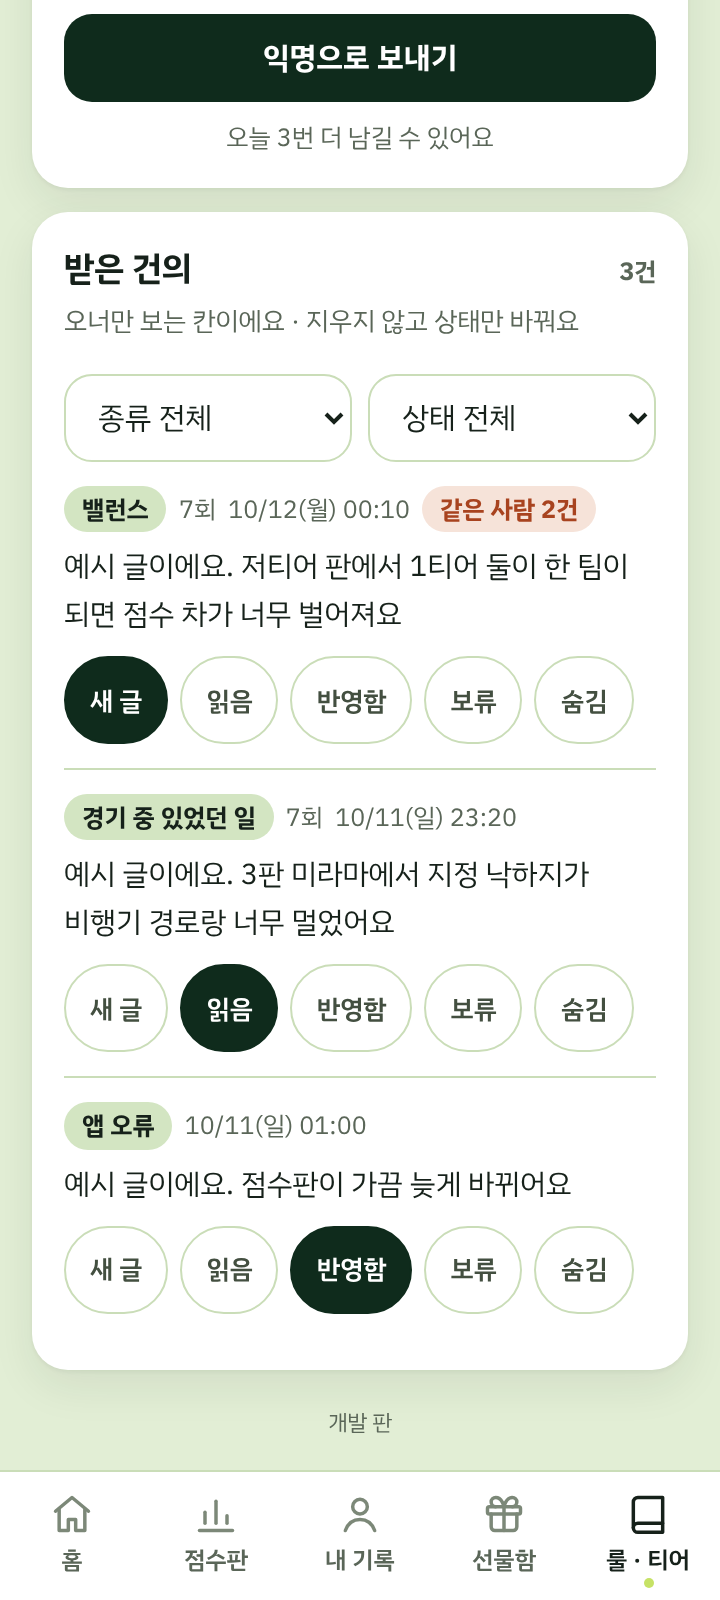
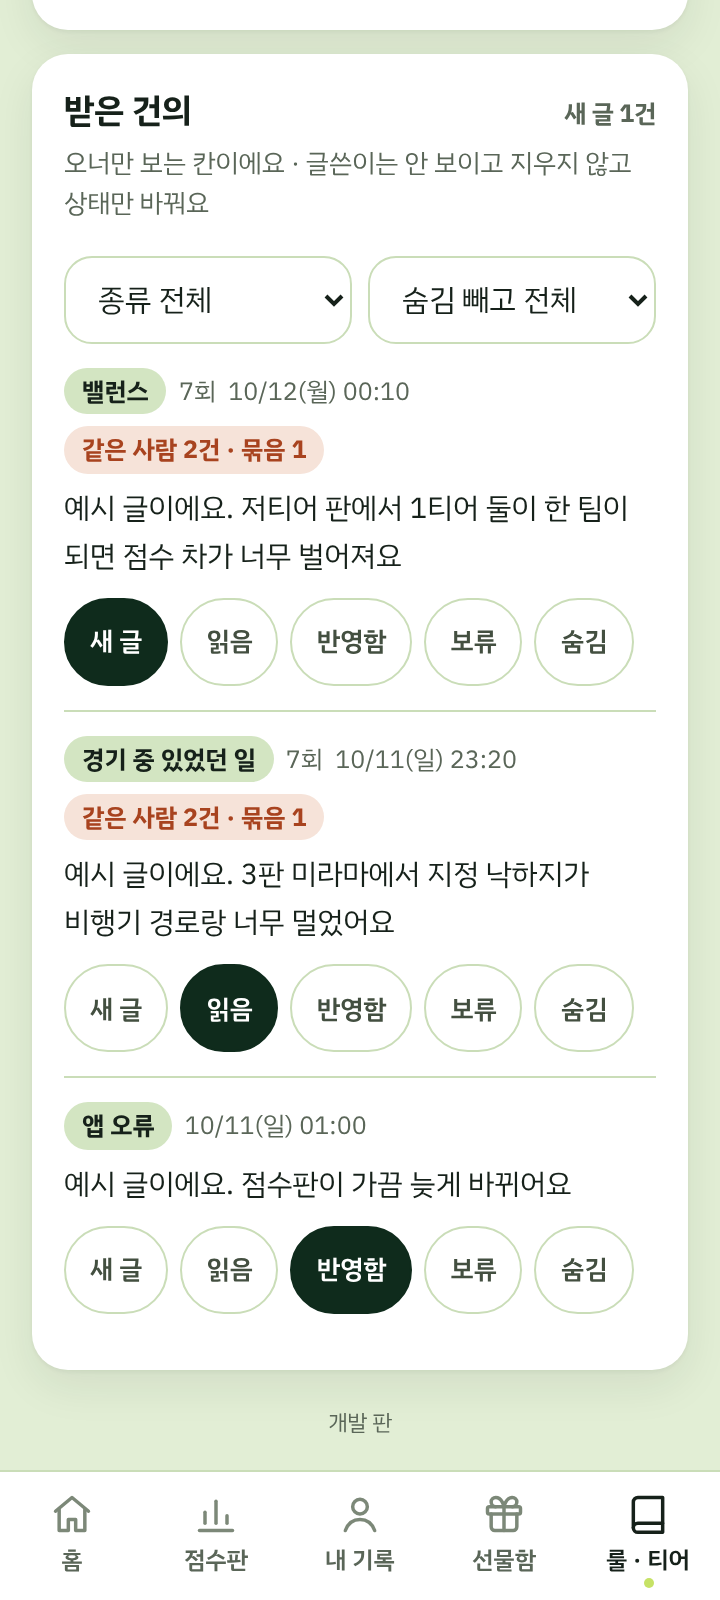
킬내기 앱 건의함 — 계약 §1.32(mri-academy #571) 그대로: 길 /feedback · /feedback/mine · /feedback/admin · category(match) · status · todayLeft · 「내 건의 n건」 · 오너 counts · group · sameAuthor · 문구 §1.32.7
Claude-Session: https://claude.ai/code/session_01VZpurRErTSq9Jq5fnBM9T2

Changed region(s): [[0.0306, 0.0, 0.9778, 0.5312], [0.8861, 0.25, 0.9167, 0.2812]]

diff --git a/killnaegi-app.html b/killnaegi-app.html
@@ -275,6 +275,7 @@ details p{font-size:14px;color:var(--body);padding:0 0 12px;}
 .fb-meta{display:flex;flex-wrap:wrap;align-items:center;gap:6px;font-size:12.5px;color:var(--mute);}
 .fb-kind{background:var(--chip);color:var(--ink);font-weight:700;border-radius:999px;padding:2px 9px;}
 .fb-same{background:var(--bad-soft);color:var(--bad);font-weight:700;border-radius:999px;padding:2px 9px;}
+.fb-st-tag{margin-left:auto;background:var(--acc-soft);color:var(--ink);font-weight:700;border-radius:999px;padding:2px 9px;}
 .fb-msg{font-size:14.5px;line-height:1.65;margin-top:6px;white-space:pre-wrap;overflow-wrap:anywhere;}
 .fb-states{display:flex;flex-wrap:wrap;gap:6px;margin-top:8px;}
 .fb-st{min-height:44px;padding:0 12px;border-radius:999px;border:1px solid var(--line);background:#fff;color:var(--body);font-size:13px;font-weight:600;cursor:pointer;}
@@ -454,7 +455,7 @@ details p{font-size:14px;color:var(--body);padding:0 0 12px;}
       </div>
       <div class="card" id="fbAdmin" hidden>
         <h2 class="card-h">받은 건의 <span class="note" id="fbAdminCount"></span></h2>
-        <p class="card-sub">오너만 보는 칸이에요 · 지우지 않고 상태만 바꿔요</p>
+        <p class="card-sub">오너만 보는 칸이에요 · 글쓴이는 안 보이고 지우지 않고 상태만 바꿔요</p>
         <div class="fb-filters">
           <select class="fb-sel" id="fbKindF" aria-label="종류로 거르기"></select>
           <select class="fb-sel" id="fbStateF" aria-label="상태로 거르기"></select>
@@ -1128,25 +1129,26 @@ details p{font-size:14px;color:var(--body);padding:0 0 12px;}
     });
   });
 
-  /* ---------- 건의함 ----------
-   * 로그인 필수 · 누가 보냈는지는 화면 어디에도 없음 · 읽는 곳은 오너 관리 칸뿐 · 디스코드 알림 없음(10/12 오너 결정).
-   * 서버 길은 경비 계약 절이 나오기 전 가정이다 — 아래 FB 한 곳만 계약대로 고치면 된다(화면 코드는 그대로).
-   *   스위치  GET  /api/killrace/switches → feedback(true 일 때만 열림)
-   *   내 상태 GET  /api/killrace/me/feedback → { left, limit }(오늘 남은 횟수 · 없어도 화면은 돈다)
-   *   보내기  POST /api/killrace/me/feedback { kind, eventId|null, body } → { ok, left } (다시 보내지 않는다)
-   *   오너    GET  /api/killrace/feedback/admin?kind=&state= → { items: [{ id, kind, eventId, eventName, body, state, createdAt, sameCount? }], total }
-   *           POST /api/killrace/feedback/admin { id, state } → { ok } */
+  /* ---------- 건의함 (계약 killrace-api §1.32 · 서버 mri-academy #571) ----------
+   * 로그인 필수 · 글쓴이는 서버도 지문(HMAC)으로만 갖고 화면 어디에도 없다 · 읽는 곳은 오너 관리 칸뿐 · 디스코드 알림 없음.
+   *   스위치  GET  /api/killrace/switches → feedback(꺼지면 쓰기만 409 · 「내 건의」 · 오너 읽기는 열림)
+   *   쓰기    POST /api/killrace/feedback { category, eventId|null, body } → { ok, id, createdAt, todayLeft } (다시 보내지 않는다)
+   *   내 건의 GET  /api/killrace/feedback/mine → { count, todayLeft, items: [{ id, category, eventId, body, status, createdAt }] }
+   *   오너    GET  /api/killrace/feedback/admin?status=&category= → { counts, items: [{ id, category, event, body, status, createdAt, statusAt, group, sameAuthor }], nextCursor }
+   *           POST /api/killrace/feedback/admin { id, status } → { ok, id, status } · 지우기 없음 */
   var FB = {
-    me: function () { return api("/api/killrace/me/feedback"); },
-    send: function (b) { return api("/api/killrace/me/feedback", b); },
-    list: function (kind, state) { return api("/api/killrace/feedback/admin" + "?kind=" + encodeURIComponent(kind || "") + "&state=" + encodeURIComponent(state || "")); },
-    set: function (id, state) { return api("/api/killrace/feedback/admin", { id: id, state: state }); }
+    mine: function () { return api("/api/killrace/feedback/mine"); },
+    send: function (b) { return api("/api/killrace/feedback", b); },
+    list: function (category, status) { return api("/api/killrace/feedback/admin?status=" + encodeURIComponent(status || "") + "&category=" + encodeURIComponent(category || "")); },
+    set: function (id, status) { return api("/api/killrace/feedback/admin", { id: id, status: status }); }
   };
-  var FB_KINDS = [{ key: "rule", label: "룰" }, { key: "balance", label: "밸런스" }, { key: "incident", label: "경기 중 있었던 일" }, { key: "app", label: "앱 오류" }, { key: "etc", label: "기타" }];
+  var FB_KINDS = [{ key: "rule", label: "룰" }, { key: "balance", label: "밸런스" }, { key: "match", label: "경기 중 있었던 일" }, { key: "app", label: "앱 오류" }, { key: "etc", label: "기타" }];
   var FB_STATES = [{ key: "new", label: "새 글" }, { key: "read", label: "읽음" }, { key: "applied", label: "반영함" }, { key: "held", label: "보류" }, { key: "hidden", label: "숨김" }];
   var FB_MIN = 10, FB_MAX = 500, FB_DAY = 3;
-  var fbPick = null, fbLeft = null;
+  var fbPick = null, fbLeft = null, fbMine = null, fbOn = false;
   var labelOf = function (list, k) { var f = list.filter(function (x) { return x.key === k; })[0]; return f ? f.label : k || ""; };
+  var fbLen = function (t) { return Array.from ? Array.from(t).length : t.length; };   // 글자 수 = 코드 포인트(§1.32.3)
+  var leftText = function () { return fbLeft === 0 ? "오늘은 " + FB_DAY + "건까지 남길 수 있어요 · 내일 다시 남길 수 있어요" : fbLeft != null ? "오늘 " + fbLeft + "번 더 남길 수 있어요" : "하루 " + FB_DAY + "번까지 남길 수 있어요"; };
   function fbState(state, html) {
     $("fbLoad").hidden = state !== "load"; $("fbFail").hidden = state !== "fail"; $("fbBody").hidden = state !== "body";
     if (state === "body") $("fbBody").innerHTML = html;
@@ -1154,43 +1156,58 @@ details p{font-size:14px;color:var(--body);padding:0 0 12px;}
   function loadFeedback() {
     fbState("load");
     var sw = getJSON("/api/killrace/switches").then(function (j) { return (j && j.switches) || j || {}; });
-    var me = token() ? FB.me() : Promise.resolve(null);
-    Promise.all([sw, me, loadEvents()]).then(function (r) {
-      var on = r[0].feedback === true, m = r[1];
-      if (!on) { fbState("body", '<div class="ready" style="margin-top:12px;"><span><b>준비 중이에요</b><span class="card-sub" style="display:block;">건의함이 열리면 여기서 남길 수 있어요</span></span></div>'); $("fbAdmin").hidden = true; return; }
+    var mine = token() ? FB.mine() : Promise.resolve(null);
+    Promise.all([sw, mine, loadEvents()]).then(function (r) {
+      var m = r[1];
+      fbOn = r[0].feedback === true;
       if (!token() || (m && m.status === 401)) {
-        fbState("body", '<p class="msg">디스코드로 연결하면 남길 수 있어요</p><a class="btn dark wide" href="killrace/">연결하기</a>');
+        fbState("body", fbOn ? '<p class="msg">디스코드로 연결하면 남길 수 있어요</p><a class="btn dark wide" href="killrace/">연결하기</a>' : fbReady());
         $("fbAdmin").hidden = true; return;
       }
       if (m && (m.status === 0 || m.status >= 500)) { fbState("fail"); return; }
-      fbLeft = m && m.ok && isFinite(m.body.left) ? Number(m.body.left) : null;
-      fbForm();
+      fbMine = m && m.ok ? m.body : null;
+      fbLeft = fbMine && isFinite(fbMine.todayLeft) ? Number(fbMine.todayLeft) : null;
+      if (!fbOn) fbState("body", fbReady() + mineHtml());      // 꺼져도 「내 건의」는 보인다(§1.32.1)
+      else fbForm();
       loadFbAdmin();
     }, function (e) { bug(e); fbState("fail"); });
   }
+  function fbReady() { return '<div class="ready" style="margin-top:12px;"><span><b>준비 중이에요</b><span class="card-sub" style="display:block;">건의함이 열리면 여기서 남길 수 있어요</span></span></div>'; }
+  // 「내 건의 n건」 — 내 지문 글만 · 오너가 숨긴 글은 서버가 「읽음」으로 준다
+  function mineHtml() {
+    var items = fbMine && fbMine.items || [];
+    if (!items.length) return "";
+    return '<h3 class="fb-label" style="margin-top:18px;">내 건의 ' + esc(isFinite(fbMine.count) ? fbMine.count : items.length) + "건</h3>" + items.slice(0, 10).map(function (x) {
+      var at = toMs(x.createdAt), ev = x.eventId && EVS ? EVS.events.filter(function (e) { return e.id === x.eventId; })[0] : null;
+      return '<div class="fb-item"><div class="fb-meta"><span class="fb-kind">' + esc(labelOf(FB_KINDS, x.category)) + "</span>" +
+        (x.eventId ? "<span>" + esc(ev ? roundOf(ev.name, x.eventId) : x.eventId + "회차") + "</span>" : "") + (at ? "<span>" + mdw(at) + "</span>" : "") +
+        '<span class="fb-st-tag">' + esc(labelOf(FB_STATES, x.status)) + '</span></div><p class="fb-msg">' + esc(x.body) + "</p></div>";
+    }).join("");
+  }
   function fbForm() {
-    if (fbLeft === 0) { fbState("body", '<div class="fb-done"><b>오늘은 ' + FB_DAY + '건을 다 남겼어요</b><p class="note">내일 다시 남길 수 있어요</p></div>'); return; }
+    if (fbLeft === 0) { fbState("body", '<div class="fb-done"><b>오늘은 ' + FB_DAY + '건까지 남길 수 있어요</b><p class="note">내일 다시 남길 수 있어요</p></div>' + mineHtml()); return; }
     var evs = (EVS && EVS.events || []).slice(0, 12);
     fbState("body",
       '<div class="kchips" role="group" aria-label="건의 종류">' + FB_KINDS.map(function (k) { return '<button type="button" class="kchip" data-kind="' + k.key + '" aria-pressed="' + (fbPick === k.key) + '">' + esc(k.label) + "</button>"; }).join("") + "</div>" +
-      '<label class="fb-label" for="fbEv">회차</label><select class="fb-sel" id="fbEv"><option value="">회차 없음</option>' +
+      '<label class="fb-label" for="fbEv">회차</label><select class="fb-sel" id="fbEv"><option value="">없음</option>' +
       evs.map(function (e) { return '<option value="' + e.id + '">' + esc(roundOf(e.name, e.id)) + " · " + md(e.start) + "</option>"; }).join("") + "</select>" +
-      '<label class="fb-label" for="fbText">내용</label><textarea class="fb-text" id="fbText" maxlength="' + FB_MAX + '" placeholder="있었던 일을 차근차근 적어 주세요"></textarea>' +
+      '<label class="fb-label" for="fbText">내용</label>' +
+      '<p class="note" style="margin-top:4px;">특정 사람을 탓하는 글보다 있었던 일을 적어 주세요</p>' +
+      '<textarea class="fb-text" id="fbText" maxlength="' + FB_MAX + '" placeholder="있었던 일을 차근차근 적어 주세요"></textarea>' +
       '<p class="count" id="fbCount">0 / ' + FB_MAX + "</p>" +
-      '<p class="note">특정 사람을 탓하기보다 있었던 일을 적어 주세요</p>' +
-      '<p class="fb-anon">누가 보냈는지는 운영진도 몰라요</p>' +
-      '<button type="button" class="btn dark wide" id="fbSend" disabled>익명으로 보내기</button>' +
-      '<p class="note" id="fbMsg" style="text-align:center;margin-top:8px;">' + (fbLeft != null ? "오늘 " + fbLeft + "번 더 남길 수 있어요" : "하루 " + FB_DAY + "번까지 남길 수 있어요") + "</p>");
+      '<p class="fb-anon">누가 썼는지는 오너에게도 보이지 않아요</p>' +
+      '<button type="button" class="btn dark wide" id="fbSend" disabled>보내기</button>' +
+      '<p class="note" id="fbMsg" style="text-align:center;margin-top:8px;">' + leftText() + "</p>" + mineHtml());
     fbCheck();
   }
   function fbCheck() {
-    var t = $("fbText") ? $("fbText").value.trim() : "", n = t.length, b = $("fbSend");
+    var t = $("fbText") ? $("fbText").value.trim() : "", n = fbLen(t), b = $("fbSend");
     if (!b) return;
     $("fbCount").textContent = n + " / " + FB_MAX + (n && n < FB_MIN ? " · " + FB_MIN + "자 이상 적어 주세요" : "");
     b.disabled = !fbPick || n < FB_MIN || n > FB_MAX;
   }
-  var FB_ERR = { daily_limit: "오늘은 " + FB_DAY + "건을 다 남겼어요 · 내일 다시 남길 수 있어요", too_many_requests: "오늘은 " + FB_DAY + "건을 다 남겼어요 · 내일 다시 남길 수 있어요",
-    invalid_body: FB_MIN + "~" + FB_MAX + "자로 적어 주세요 · 링크는 넣을 수 없어요", switch_off: "건의함이 잠깐 닫혔어요", not_member: "먼저 킬내기 동의가 필요해요 · 내 계정에서 할 수 있어요" };
+  var FB_ERR = { daily_limit: "오늘은 " + FB_DAY + "건까지 남길 수 있어요", invalid_body: FB_MIN + "~" + FB_MAX + "자로 적어 주세요", event_not_found: "고른 회차를 찾지 못했어요 · 회차를 다시 골라 주세요",
+    switch_off: "건의함이 잠깐 닫혔어요", unavailable: "지금은 받을 수 없어요 · 잠시 뒤 다시 눌러 주세요", table_missing: "지금은 받을 수 없어요 · 잠시 뒤 다시 눌러 주세요" };
   $("fbBox").addEventListener("click", function (e) {
     var k = e.target.closest("[data-kind]");
     if (k) { fbPick = k.getAttribute("data-kind"); document.querySelectorAll("[data-kind]").forEach(function (x) { x.setAttribute("aria-pressed", String(x === k)); }); fbCheck(); return; }
@@ -1199,59 +1216,63 @@ details p{font-size:14px;color:var(--body);padding:0 0 12px;}
     var st = e.target.closest("[data-st]");
     if (st) { fbSetState(st); return; }
     if (e.target.id !== "fbSend") return;
-    var b = e.target, ev = $("fbEv").value, body = { kind: fbPick, eventId: ev ? Number(ev) : null, body: $("fbText").value.trim() };
+    var b = e.target, ev = $("fbEv").value, body = { category: fbPick, eventId: ev ? Number(ev) : null, body: $("fbText").value.trim() };
     b.disabled = true; b.textContent = "보내는 중이에요";
     FB.send(body).then(function (r) {
       if (r.ok) {
-        fbLeft = r.body && isFinite(r.body.left) ? Number(r.body.left) : fbLeft != null ? Math.max(0, fbLeft - 1) : null;
+        fbLeft = r.body && isFinite(r.body.todayLeft) ? Number(r.body.todayLeft) : fbLeft != null ? Math.max(0, fbLeft - 1) : null;
         fbPick = null;
-        fbState("body", '<div class="fb-done"><b>잘 받았어요</b><p class="note">' + (fbLeft === 0 ? "오늘은 " + FB_DAY + "건을 다 남겼어요 · 내일 다시 남길 수 있어요" : fbLeft != null ? "오늘 " + fbLeft + "번 더 남길 수 있어요" : "하루 " + FB_DAY + "번까지 남길 수 있어요") + "</p>" +
-          (fbLeft !== 0 ? '<button type="button" class="btn line wide" data-fb="again">하나 더 남기기</button>' : "") + "</div>");
+        // 「내 건의」를 다시 받아 방금 글까지 보여 준다(못 받으면 목록 없이)
+        FB.mine().then(function (m) {
+          if (m.ok) fbMine = m.body;
+          fbState("body", '<div class="fb-done"><b>건의를 받았어요</b><p class="note">' + leftText() + "</p>" +
+            (fbLeft !== 0 ? '<button type="button" class="btn line wide" data-fb="again">하나 더 남기기</button>' : "") + "</div>" + mineHtml());
+        });
         if (!$("fbAdmin").hidden) loadFbAdmin();
         return;
       }
       if (r.status === 401) { loadFeedback(); return; }
       if (r.code === "daily_limit" || r.status === 429) fbLeft = 0;
-      b.textContent = "익명으로 보내기"; fbCheck();
+      b.textContent = "보내기"; fbCheck();
       $("fbMsg").textContent = FB_ERR[r.code] || (r.status === 429 ? FB_ERR.daily_limit : "보내지 못했어요 · 적은 글은 그대로 있어요 · 다시 눌러 주세요");
     });
   });
   $("fbBox").addEventListener("input", function (e) { if (e.target.id === "fbText") fbCheck(); });
 
-  // 오너 관리 칸 — 서버가 오너인지 판정(아니면 403 → 칸을 숨긴다). 지우기 버튼은 없다
+  // 오너 관리 칸 — 서버가 오너인지 판정(아니면 403 → 칸을 숨긴다). 지우기 버튼은 없다 · 기본 목록은 숨김을 뺀 전부(§1.32.5)
   function fbFilters() {
     if ($("fbKindF").options.length) return;
     $("fbKindF").innerHTML = '<option value="">종류 전체</option>' + FB_KINDS.map(function (k) { return '<option value="' + k.key + '">' + esc(k.label) + "</option>"; }).join("");
-    $("fbStateF").innerHTML = '<option value="">상태 전체</option>' + FB_STATES.map(function (k) { return '<option value="' + k.key + '">' + esc(k.label) + "</option>"; }).join("");
+    $("fbStateF").innerHTML = '<option value="">숨김 빼고 전체</option>' + FB_STATES.map(function (k) { return '<option value="' + k.key + '">' + esc(k.label) + "</option>"; }).join("");
   }
   function loadFbAdmin() {
-    var kind = $("fbKindF").value, state = $("fbStateF").value;
+    var category = $("fbKindF").value, status = $("fbStateF").value;
     $("fbList").innerHTML = '<span class="sk sk-l"></span><span class="sk sk-l s"></span><p class="wait">불러오는 중이에요</p>';
-    FB.list(kind, state).then(function (r) {
+    FB.list(category, status).then(function (r) {
       if (r.status === 401 || r.status === 403 || r.status === 404) { $("fbAdmin").hidden = true; return; }
       fbFilters(); $("fbAdmin").hidden = false;
       if (!r.ok) { $("fbList").innerHTML = '<div class="fail"><span>받은 건의를 불러오지 못했어요</span><button type="button" class="retry" data-fb="admin">다시 시도</button></div>'; return; }
-      var items = r.body.items || [];
-      $("fbAdminCount").textContent = isFinite(r.body.total) ? r.body.total + "건" : items.length + "건";
-      $("fbList").innerHTML = items.length ? items.map(fbItem).join("") : '<p class="msg">' + (kind || state ? "이 조건에 맞는 건의가 없어요" : "아직 받은 건의가 없어요") + "</p>";
+      var items = r.body.items || [], c = r.body.counts || {};
+      $("fbAdminCount").textContent = isFinite(c.new) ? "새 글 " + c.new + "건" : items.length + "건";
+      $("fbList").innerHTML = items.length ? items.map(fbItem).join("") : '<p class="msg">' + (category || status ? "이 조건에 맞는 건의가 없어요" : "아직 받은 건의가 없어요") + "</p>";
     });
   }
   function fbItem(x) {
     var at = toMs(x.createdAt);
-    return '<div class="fb-item" data-id="' + esc(x.id) + '"><div class="fb-meta"><span class="fb-kind">' + esc(labelOf(FB_KINDS, x.kind)) + "</span>" +
-      (x.eventId ? "<span>" + esc(x.eventName ? roundOf(x.eventName, x.eventId) : x.eventId + "회차") + "</span>" : "") +
+    return '<div class="fb-item" data-id="' + esc(x.id) + '"><div class="fb-meta"><span class="fb-kind">' + esc(labelOf(FB_KINDS, x.category)) + "</span>" +
+      (x.event ? "<span>" + esc(x.event.name ? roundOf(x.event.name, x.event.id) : x.event.id + "회차") + "</span>" : "") +
       (at ? "<span>" + mdw(at) + " " + hm(at) + "</span>" : "") +
-      (x.sameCount > 1 ? '<span class="fb-same">같은 사람 ' + esc(x.sameCount) + "건</span>" : "") + "</div>" +
+      (x.sameAuthor > 1 ? '<span class="fb-same">같은 사람 ' + esc(x.sameAuthor) + "건" + (x.group ? " · 묶음 " + esc(x.group) : "") + "</span>" : "") + "</div>" +
       '<p class="fb-msg">' + esc(x.body) + "</p>" +
       '<div class="fb-states" role="group" aria-label="상태 바꾸기">' + FB_STATES.map(function (s) {
-        return '<button type="button" class="fb-st" data-st="' + s.key + '" aria-pressed="' + (x.state === s.key) + '">' + esc(s.label) + "</button>";
+        return '<button type="button" class="fb-st" data-st="' + s.key + '" aria-pressed="' + (x.status === s.key) + '">' + esc(s.label) + "</button>";
       }).join("") + "</div></div>";
   }
   function fbSetState(btn) {
     var item = btn.closest("[data-id]"), id = item.getAttribute("data-id"), st = btn.getAttribute("data-st");
     if (btn.getAttribute("aria-pressed") === "true") return;
     item.querySelectorAll("[data-st]").forEach(function (x) { x.disabled = true; });
-    FB.set(id, st).then(function (r) {
+    FB.set(isFinite(Number(id)) ? Number(id) : id, st).then(function (r) {
       item.querySelectorAll("[data-st]").forEach(function (x) { x.disabled = false; if (r.ok) x.setAttribute("aria-pressed", String(x === btn)); });
       if (!r.ok) btn.textContent = "다시 눌러 주세요";
     });
